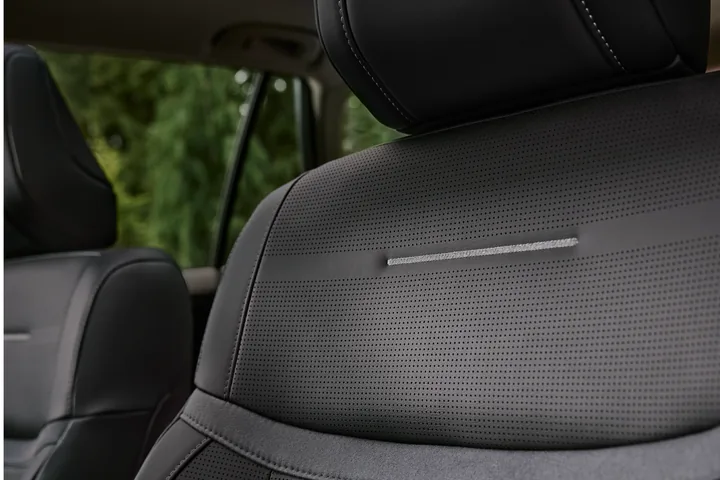
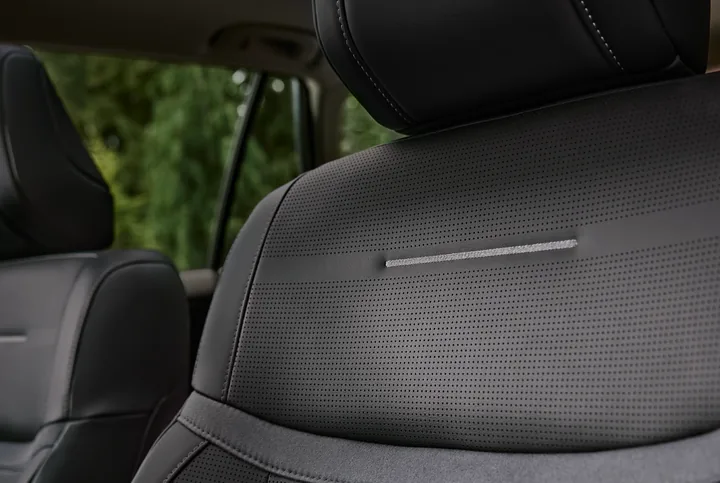
fix(photos): trim the white band off the left of the seat close-up

diff --git a/rav4-site/photos.js b/rav4-site/photos.js
@@ -203,7 +203,7 @@ window.PHOTOS = {
 "RHV_MY26_0039": [
 720,
 1440,
-3600
+3582
 ],
 "RHV_MY26_0045": [
 720,
